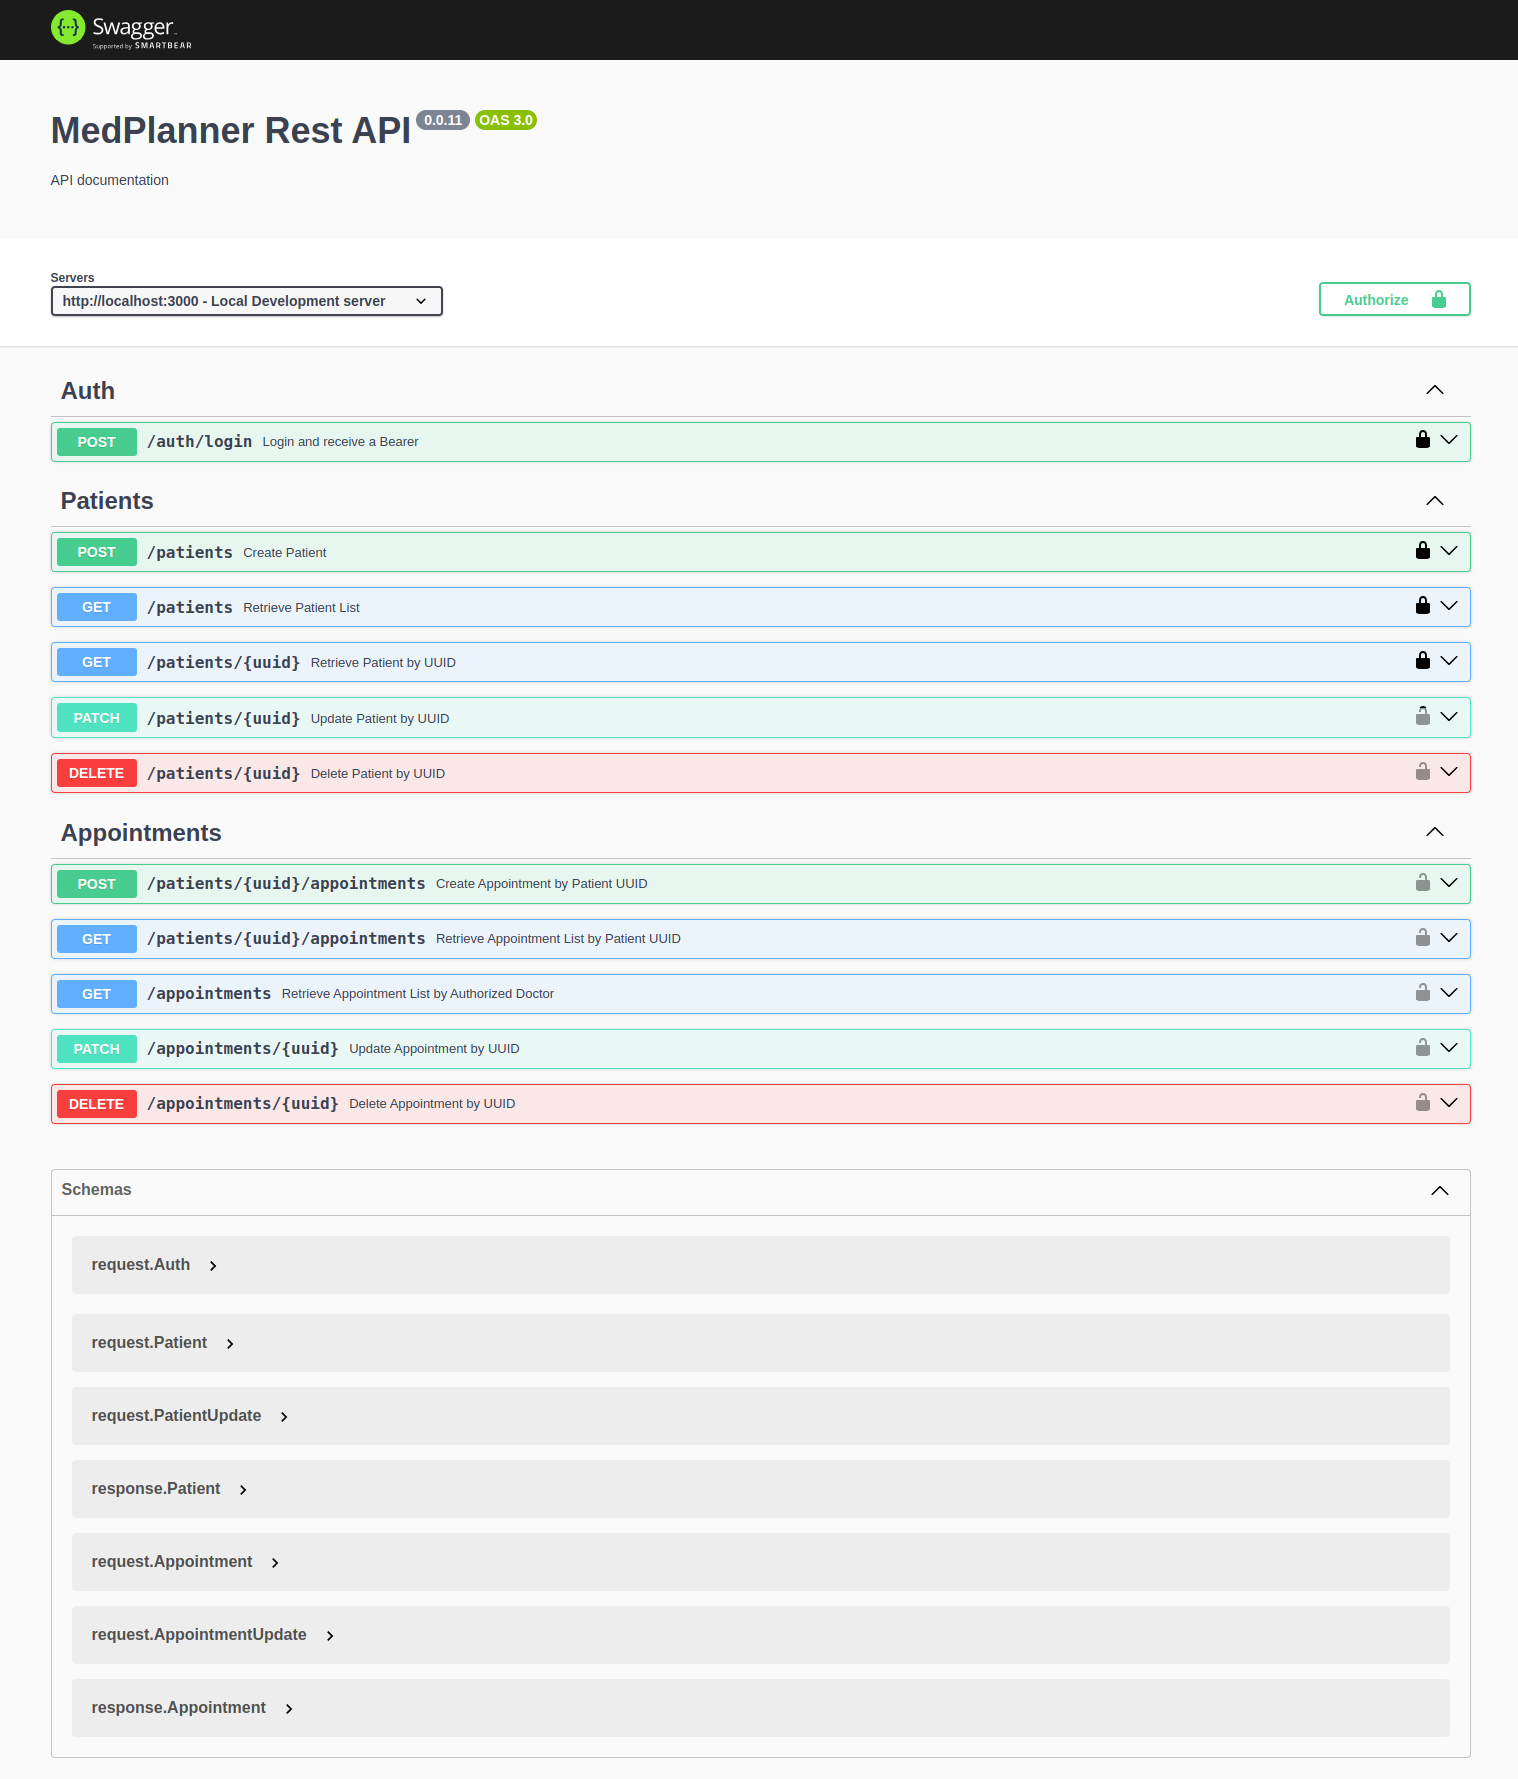
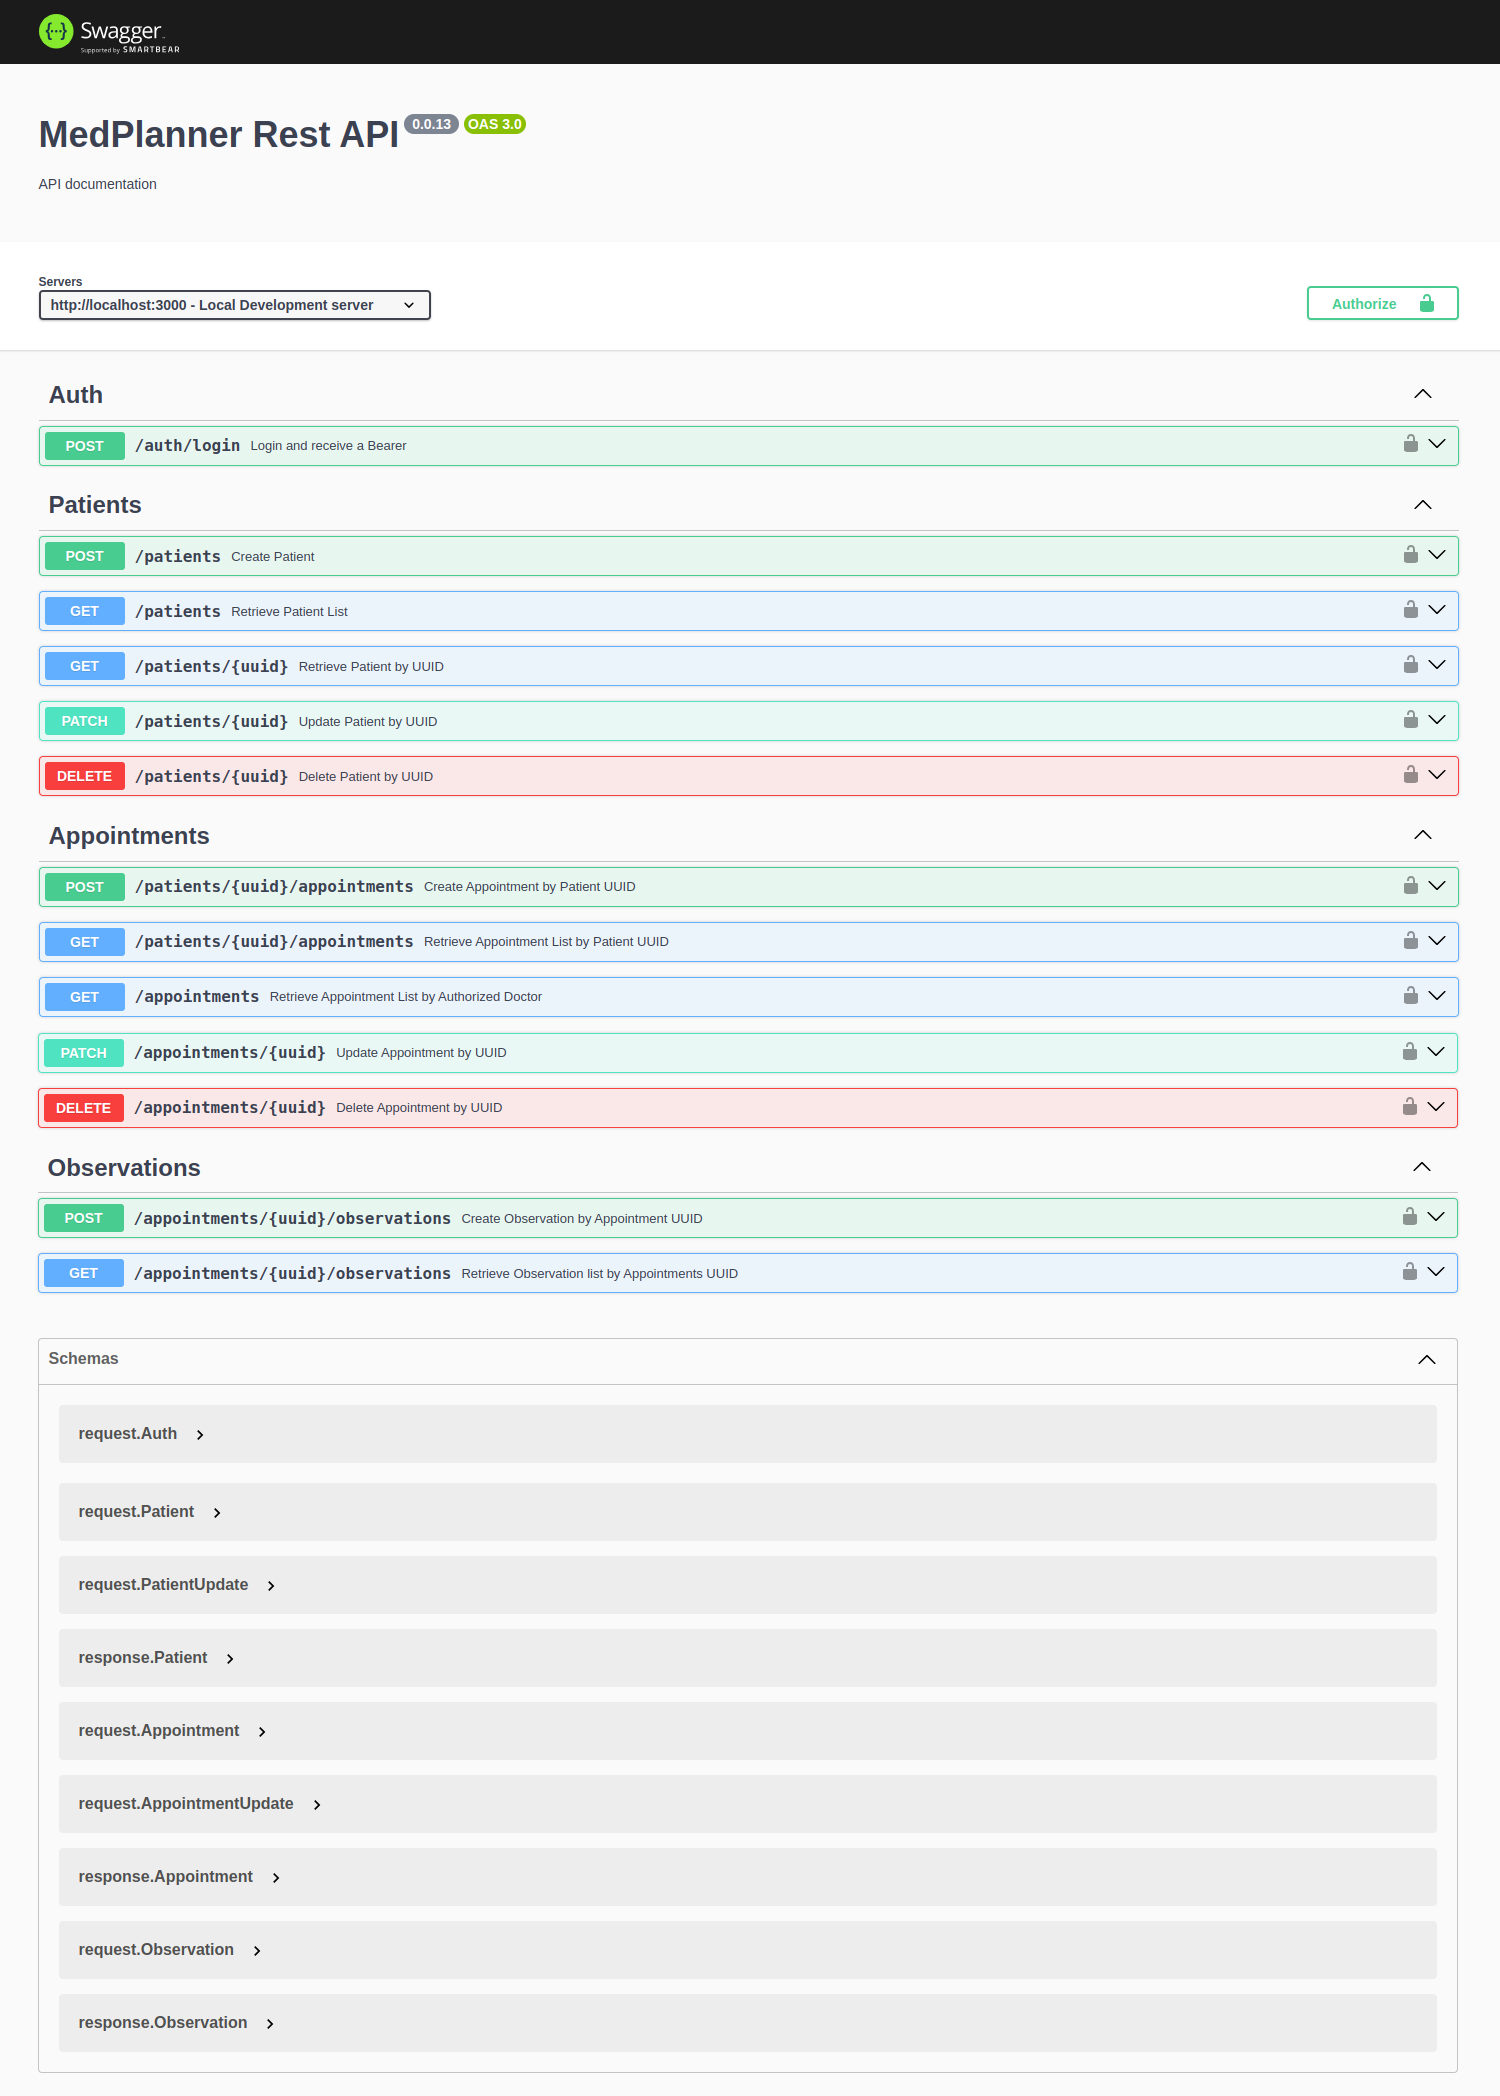
feat(observation):testes e rota para obter lista de anotacoes por UUID do agendamento/consulta

Changed region(s): [[0.0, 0.0, 0.9813, 0.9893]]

diff --git a/backend-rest/api/test/routes/observation.test.js b/backend-rest/api/test/routes/observation.test.js
@@ -25,6 +25,11 @@ const appointmentToCreate = {
   "endTime": "2035-12-20 10:30:00"
 };
 
+const observationToCreate = {
+  "uuid": "6112c28c-e97b-4823-9e73-ec89074449bf",
+  "message": "Devemos solicitar exames mais profundos"
+};
+
 async function seed() {
   await patients.bulkCreate([patientToCreate], { ignoreDuplicates: true });
 }
@@ -62,10 +67,20 @@ describe('POST Authenticated in /appointments/uuid/observations', () => {
     const response = await request(app)
       .post(`/appointments/${appointmentToCreate.uuid}/observations`)
       .set('Authorization', `Bearer ${bearerToken}`)
-      .send({
-        "uuid": "6112c28c-e97b-4823-9e73-ec89074449bf",
-        "message": "Devemos solicitar exames mais profundos"
-      })
+      .send(observationToCreate)
       .expect(StatusCodes.CREATED);
+  });
+});
+
+describe('GET Authenticated in /appointments/uuid/observations', () => {
+  (`Should return a list of observation to appointment UUID ${appointmentToCreate.uuid}`, async () => {
+    const response = await request(app)
+      .get(`/appointments/${appointmentToCreate.uuid}/observations`)
+      .set('Authorization', `Bearer ${bearerToken}`)
+      .set('Accept', 'application.json')
+      .expect('content-type', /json/)
+      .expect(StatusCodes.OK);
+
+    expect(response.body[0].message).toEqual(observationToCreate.message);
   });
 });

diff --git a/backend-rest/api/routes/observationRoutes.js b/backend-rest/api/routes/observationRoutes.js
@@ -38,4 +38,32 @@ router.use(authenticate);
  */
 router.post('/appointments/:uuid/observations', ObservationController.create);
 
+/**
+ * @swagger
+ * /appointments/{uuid}/observations:
+ *   get:
+ *     summary: Retrieve Observation list by Appointments UUID
+ *     security:
+ *       - bearerAuth: []
+ *     tags: 
+ *       - Observations
+ *     parameters:
+ *       - in: path
+ *         name: uuid
+ *         required: true
+ *         schema:
+ *           type: string
+ *           format: uuid
+ *     responses:
+ *       200:
+ *         description: A list of Patient
+ *         content:
+ *           application/json:
+ *             schema:
+ *               type: array
+ *               items:
+ *                 $ref: '#/components/schemas/response.Observation'
+ */
+router.get('/appointments/:uuid/observations', ObservationController.retrieveByAppointmentUUID);
+
 module.exports = router;

diff --git a/backend-rest/api/controllers/observationController.js b/backend-rest/api/controllers/observationController.js
@@ -33,6 +33,34 @@ class ObservationController {
       });
     }
   }
+
+  static async retrieveByAppointmentUUID(req, res) {
+    const { uuid: appointmentUUID } = req.params
+
+    try {
+      const appointment = await appointments.findOne({
+        where: {
+          uuid: appointmentUUID,
+        },
+        attributes: ['id'],
+      });
+
+      const list = await observations.findAll({
+        where: {
+          appointmentId: appointment.id
+        },
+        attributes: ['uuid', 'message'],
+      })
+
+      return res.status(StatusCodes.OK).json(list);
+
+    } catch (error) {
+      console.log(error)
+      res.status(StatusCodes.INTERNAL_SERVER_ERROR).json({
+        message: 'Error retriving observation list'
+      });
+    }
+  }
 }
 
 module.exports = ObservationController;
